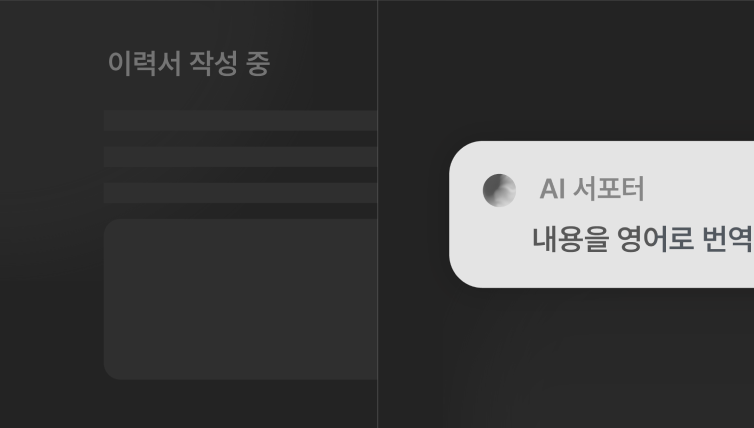
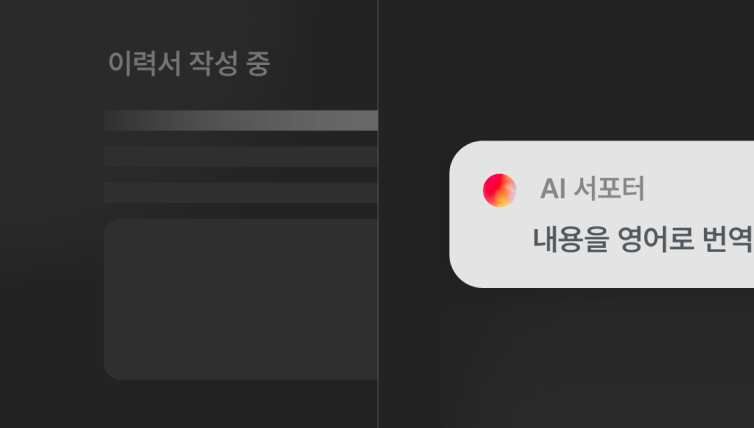
색상 추가

diff --git a/index.html b/index.html
@@ -175,9 +175,6 @@
                     뤼튼의 모든
                     기능이<br>나를 위한 단 하나의
                     서포터로 통합됩니다</p>
-                <p class="text-[16px] text-[#858E95] leading-[150%] text-center mb-[50px]">더 정교한 문맥 이해와 자연스러운 문장 구성이
-                    가능하도록 AI 모델이 업그레이드되었습니다.<br class="hidden lg:block">
-                    이를 통해 보다 창의적이고 목적에 맞는 콘텐츠 생성이 가능해졌습니다.</p>
             </div>
         </section>
         <section id="section3" class="w-full bg-[#151515] pt-[150px] lg:pt-[190px] pb-[175px] lg:pb-[260px]">
@@ -868,7 +865,7 @@
                             </div>
                             <div class="faq-answer mt-[16px]" style="display: none;">
                                 <p class="text-[#353A40] text-[16px] leading-[24px] tracking-[-0.32px] max-w-[800px]">
-                                    뤼튼 '캐릭터 챗'이 '크랙'으로 변경되었습니다. '크랙'은 crack.wrtn.ai 에서 사용하시거나, 모바일 Google Play 혹은 Apple
+                                    뤼튼 '캐릭터 챗'이 '크랙'으로 변경되었습니다. '크랙'은 <a href="https://crack.wrtn.ai" target="_blank" class="underline">crack.wrtn.ai</a> 에서 사용하시거나, 모바일 Google Play 혹은 Apple
                                     App Store에서 '크랙' 검색 후 다운로드 하여 사용하실 수 있습니다.
                                 </p>
                             </div>
